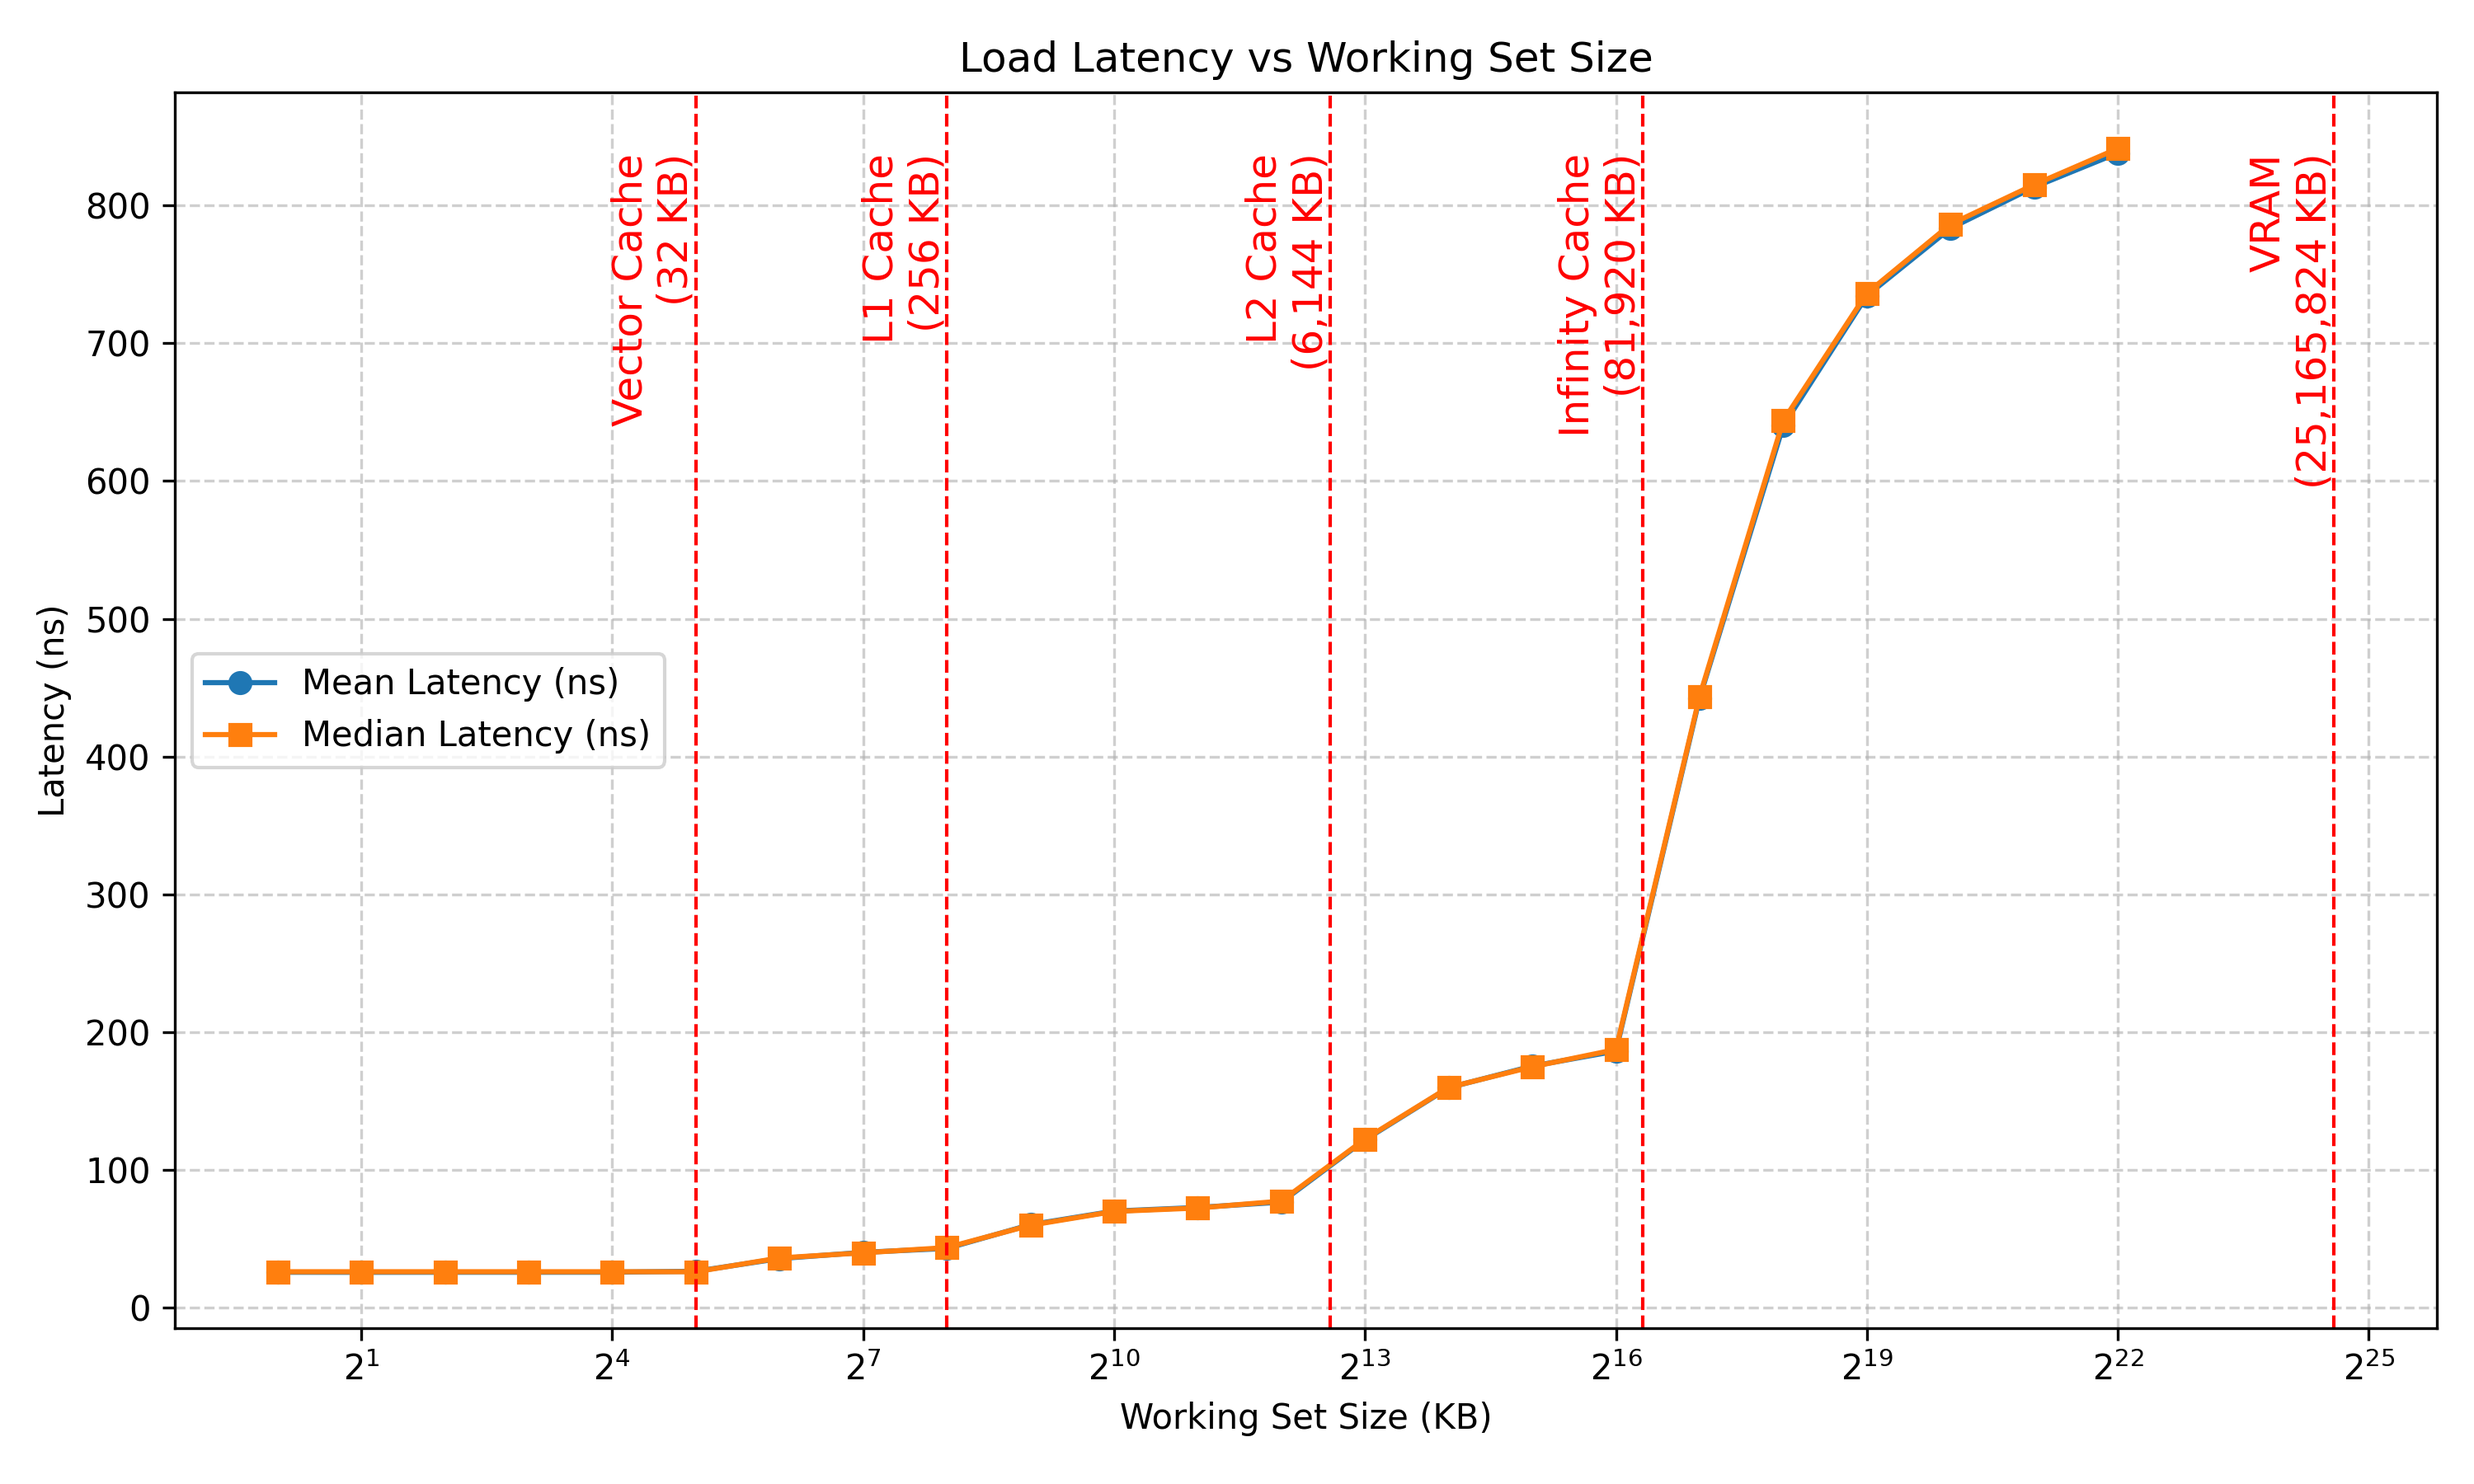
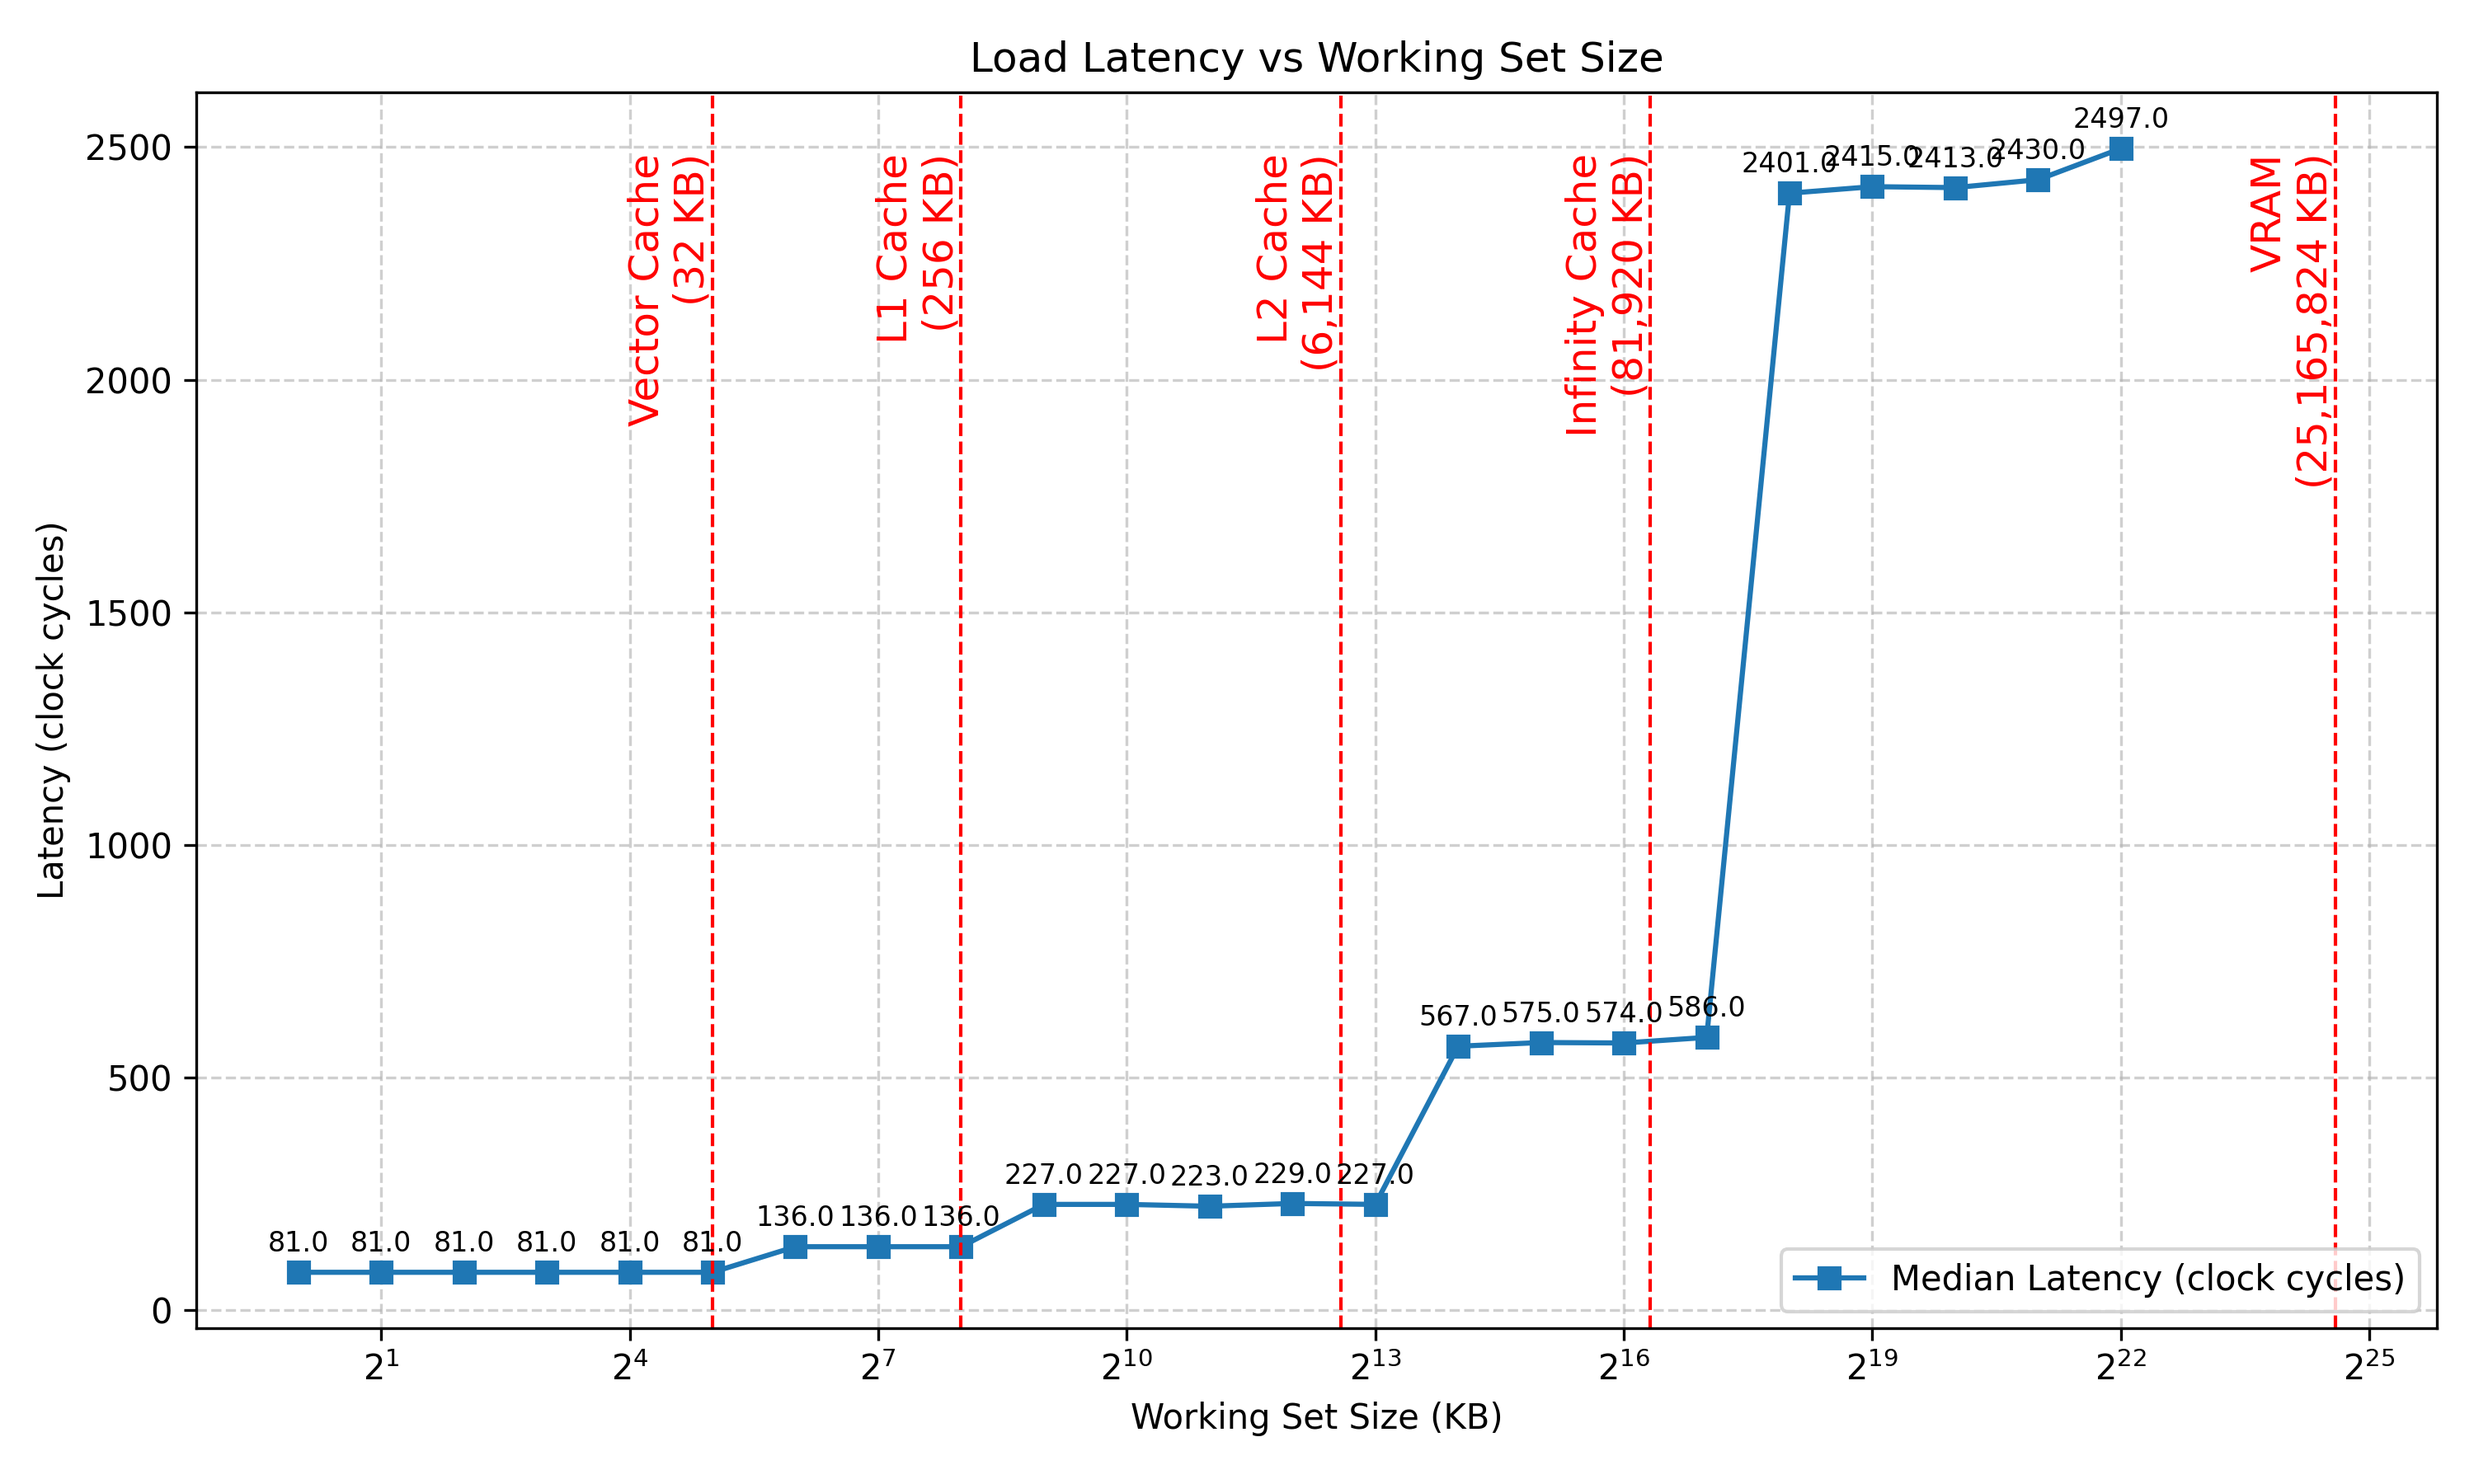
saving

diff --git a/src/main.cpp b/src/main.cpp
@@ -2,26 +2,30 @@
 #include "VectorAdd.hpp"
 #include "Utilities.hpp"
 #include "Pchase.hpp"
+#include "CacheParameters.hpp"
 // #include "Bandwidths.hpp"
 
 #include <iostream>
 #include <stdint.h>
 
-constexpr size_t iter = 1; //2 iter one for warmup
+constexpr size_t iter = 2; //2 iter one for warmup
 
 int main(int argc, char* argv[])
 {
     
-    for(uint64_t pSize = 7; pSize < MAX_ITER; pSize++)
-    {
-        //need to fix this purposely hardcode uint64_t as we are doing pChase on 64 bit addresses, 
-        //however the set up uses uint32_t shuffled indices which adds to a base address. 
-        //TODO: Need to clean up code
+    // for(uint64_t pSize = 7; pSize < MAX_ITER; pSize++)
+    // {
+    //     //need to fix this purposely hardcode uint64_t as we are doing pChase on 64 bit addresses, 
+    //     //however the set up uses uint32_t shuffled indices which adds to a base address. 
+    //     //TODO: Need to clean up code
         
-        PChase<uint64_t> bench1 = PChase<uint64_t>(iter, 1UL << pSize);
-        bench1.type = test_type::FINE_GRAINED;
-        bench1.run();
-    }
+    //     PChase<uint64_t> bench1 = PChase<uint64_t>(iter, 1UL << pSize);
+    //     bench1.type = test_type::FINE_GRAINED;
+    //     bench1.run();
+    // }
+
+    CacheParam<char> bench2 = CacheParam<char>(iter, 10*128);
+    bench2.run();
 
     return 0;
 }

diff --git a/plot.py b/plot.py
@@ -4,13 +4,13 @@ import numpy as np
 import pandas as pd
 
 # === CONFIG ===
-LOG_FILE = "latency_log.txt"
+LOG_FILE = "record.log"
 PLOT_FILE = "latency_plot.png"
 TABLE_FILE = "latency_summary.csv"
 
 # === REGEX PATTERNS ===
 kb_pattern = re.compile(r"KB:\s*(\d+)")
-avg_pattern = re.compile(r"Average Load Latency \(ns\):\s*([\d.]+)")
+avg_pattern = re.compile(r"Avg Load Latency \(clock cycles\)\s*([\d.]+)")
 median_pattern = re.compile(r"Median ET\s*:\s*([\d.]+)")
 
 # === PARSE LOG FILE ===
@@ -61,11 +61,21 @@ for label, upper_limit in sorted_bounds:
 
 # === PLOT ===
 plt.figure(figsize=(10, 6))
-plt.plot(kb_values, avg_latency, marker='o', label='Mean Latency (ns)')
-plt.plot(kb_values, median_latency, marker='s', label='Median Latency (ns)')
+# plt.plot(kb_values, avg_latency, marker='o', label='Mean Latency (ns)')
+plt.plot(kb_values, median_latency, marker='s', label='Median Latency (clock cycles)')
+
+for xi, yi in zip(kb_values, median_latency):
+    plt.annotate(
+        "{:.1f}".format(yi),
+        (xi, yi),
+        textcoords="offset points",
+        xytext=(0, 6),
+        ha="center",
+        fontsize=8
+    )
 plt.xscale('log', base=2)
 plt.xlabel('Working Set Size (KB)')
-plt.ylabel('Latency (ns)')
+plt.ylabel('Latency (clock cycles)')
 plt.title('Load Latency vs Working Set Size')
 plt.grid(True, which="both", ls="--", alpha=0.6)
 
